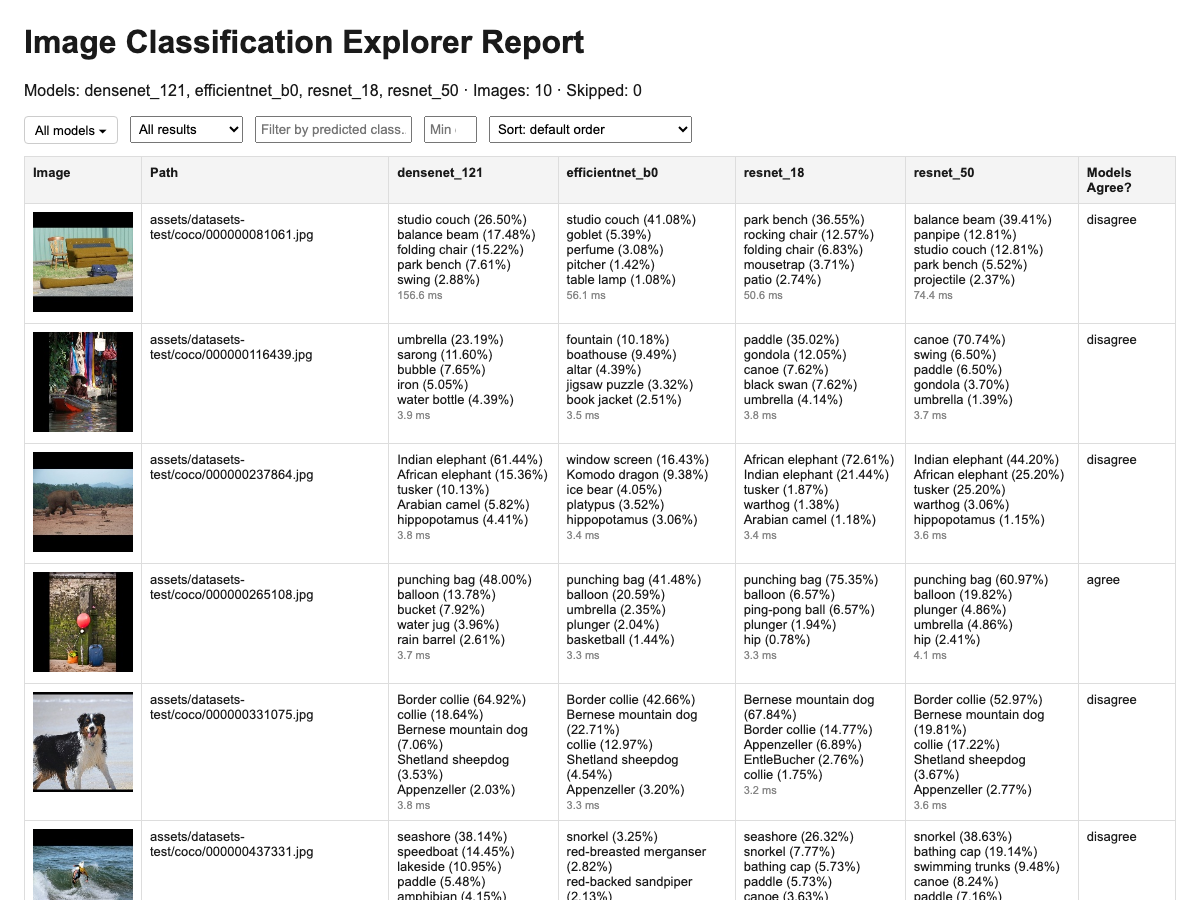
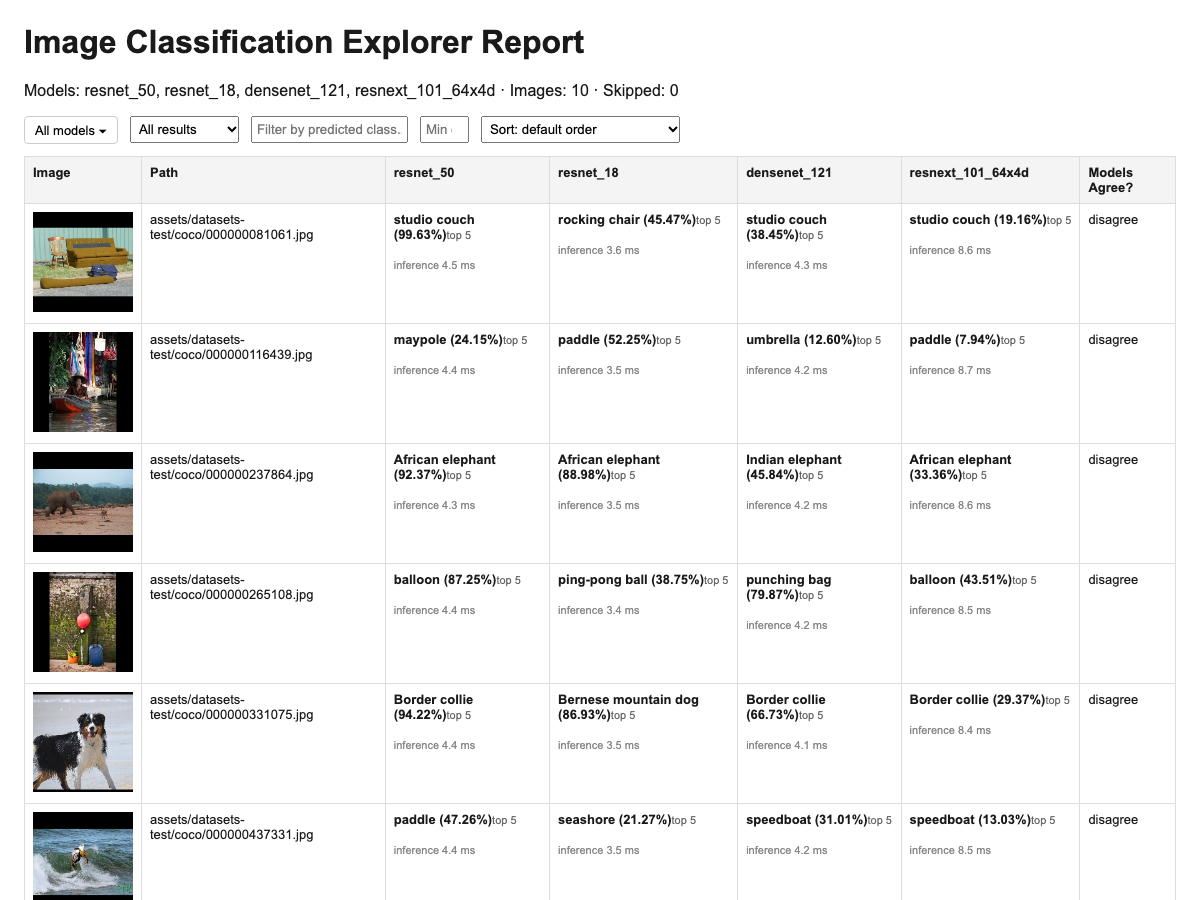
docs(classifier): remeasure the collection sizes and refresh the report example
The sizing table and sample summary were measured with EfficientNet-B0 in
the model set and on an older Core. Remeasured on the DevKit with the four
registry models: 1,000 ImageNet validation images take 95 s with C++ and
107 s with Python, about 5.5 KB of report per image. The example report
now shows the four current models.

diff --git a/examples/classification/image-classification-explorer/README.md b/examples/classification/image-classification-explorer/README.md
@@ -162,15 +162,16 @@ costs the previous report; the next run writes a fresh one.
 **How large a collection is practical.** The input directory is not capped, but
 the report is one HTML page and every result is held in memory until it is
 written, so the collection size that is useful is smaller than the one that
-fits. Measured on a Modalix DevKit with the four models above, at about 288 ms
-and 6 KB of report per image:
+fits. On a Modalix DevKit with the four models above, 1,000 ImageNet
+validation images took 95 s with C++ and 107 s with Python, about 0.1 s and
+5.5 KB of report per image. The larger rows scale those measurements:
 
 | Images | Run time | `report.json` | `report.html` |
 | ---: | ---: | ---: | ---: |
-| 1,000 | ~5 min | 3 MB | 3 MB |
-| 10,000 | ~48 min | 34 MB | 26 MB |
-| 50,000 | ~4 h | 170 MB | 130 MB |
-| 100,000 | ~8 h | 340 MB | 259 MB |
+| 1,000 | ~2 min | 3.4 MB | 2 MB |
+| 10,000 | ~17 min | 34 MB | 21 MB |
+| 50,000 | ~1.5 h | 170 MB | 103 MB |
+| 100,000 | ~3 h | 340 MB | 205 MB |
 
 Past roughly 10,000 images `report.html` stops being practical to open and
 browse, which is what the report is for, and a large enough collection can
@@ -189,7 +190,7 @@ you ran: the run ends with a summary naming the report directory, and every
 model agrees on the sample image.
 
 ```text
-Done in 3292.5 ms. Report written to sandbox/report
+Done in 12676.6 ms. Report written to sandbox/report
   report.html, thumbnails/
 ```
 
